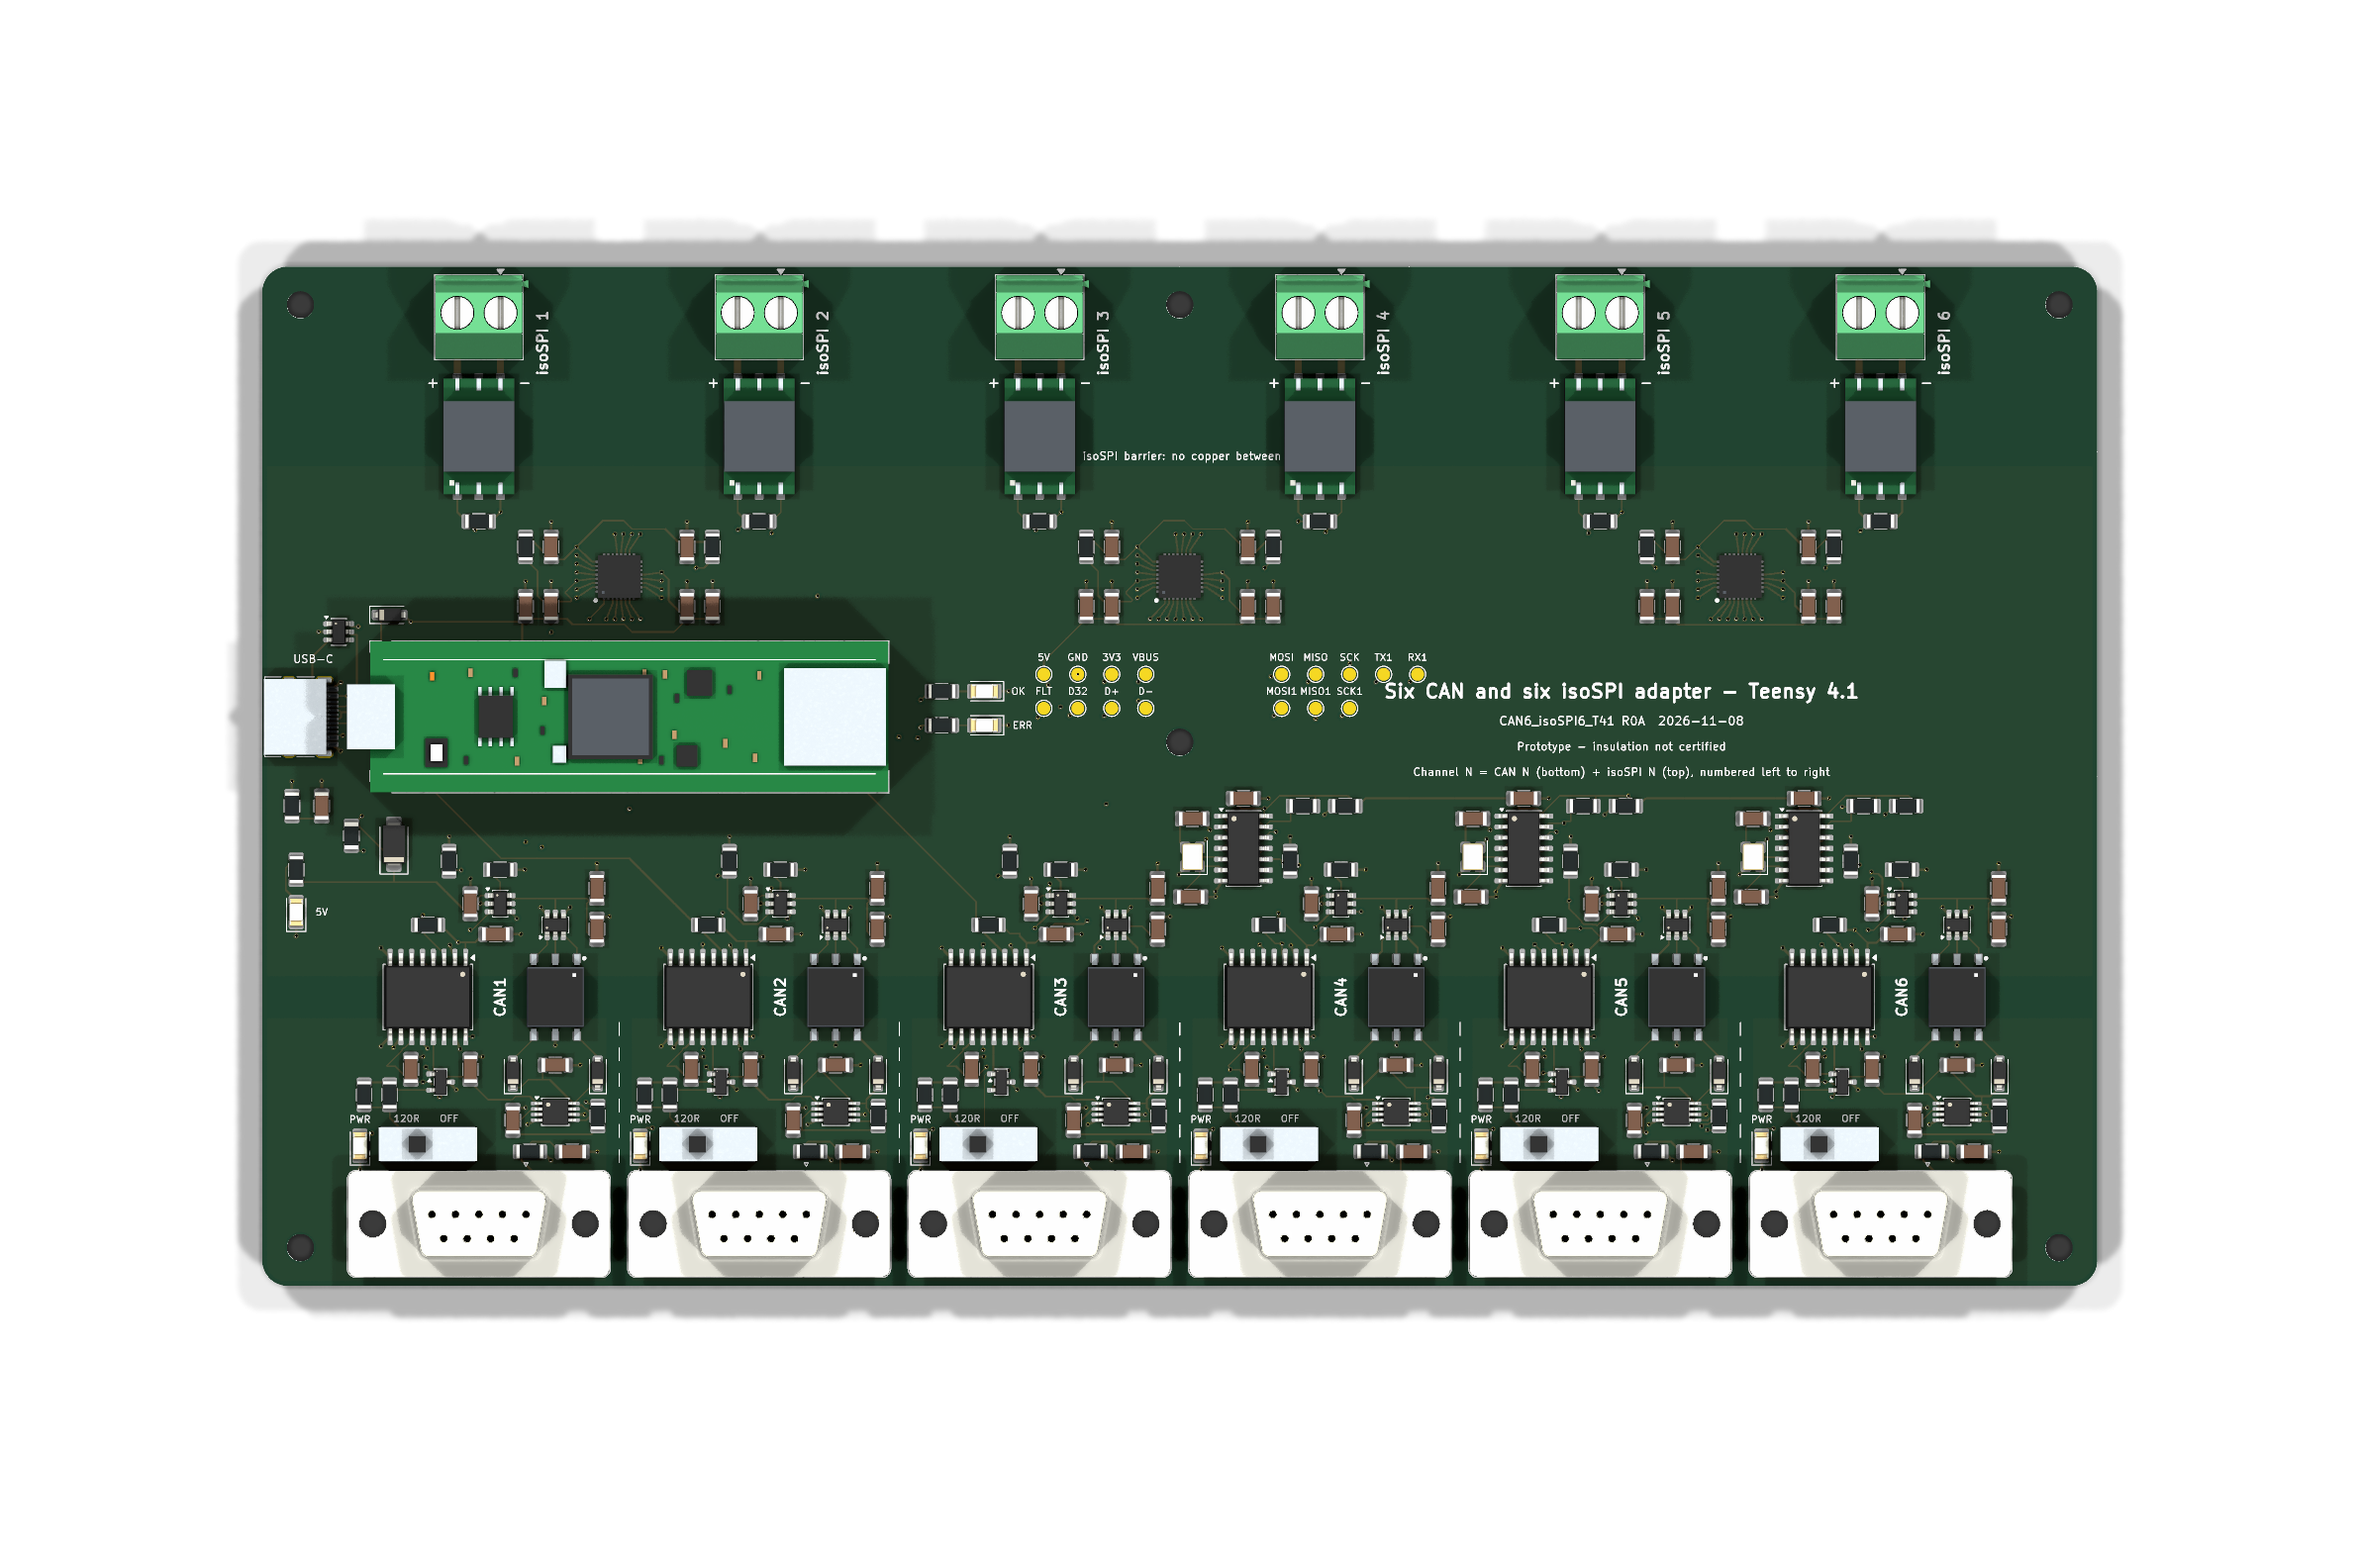
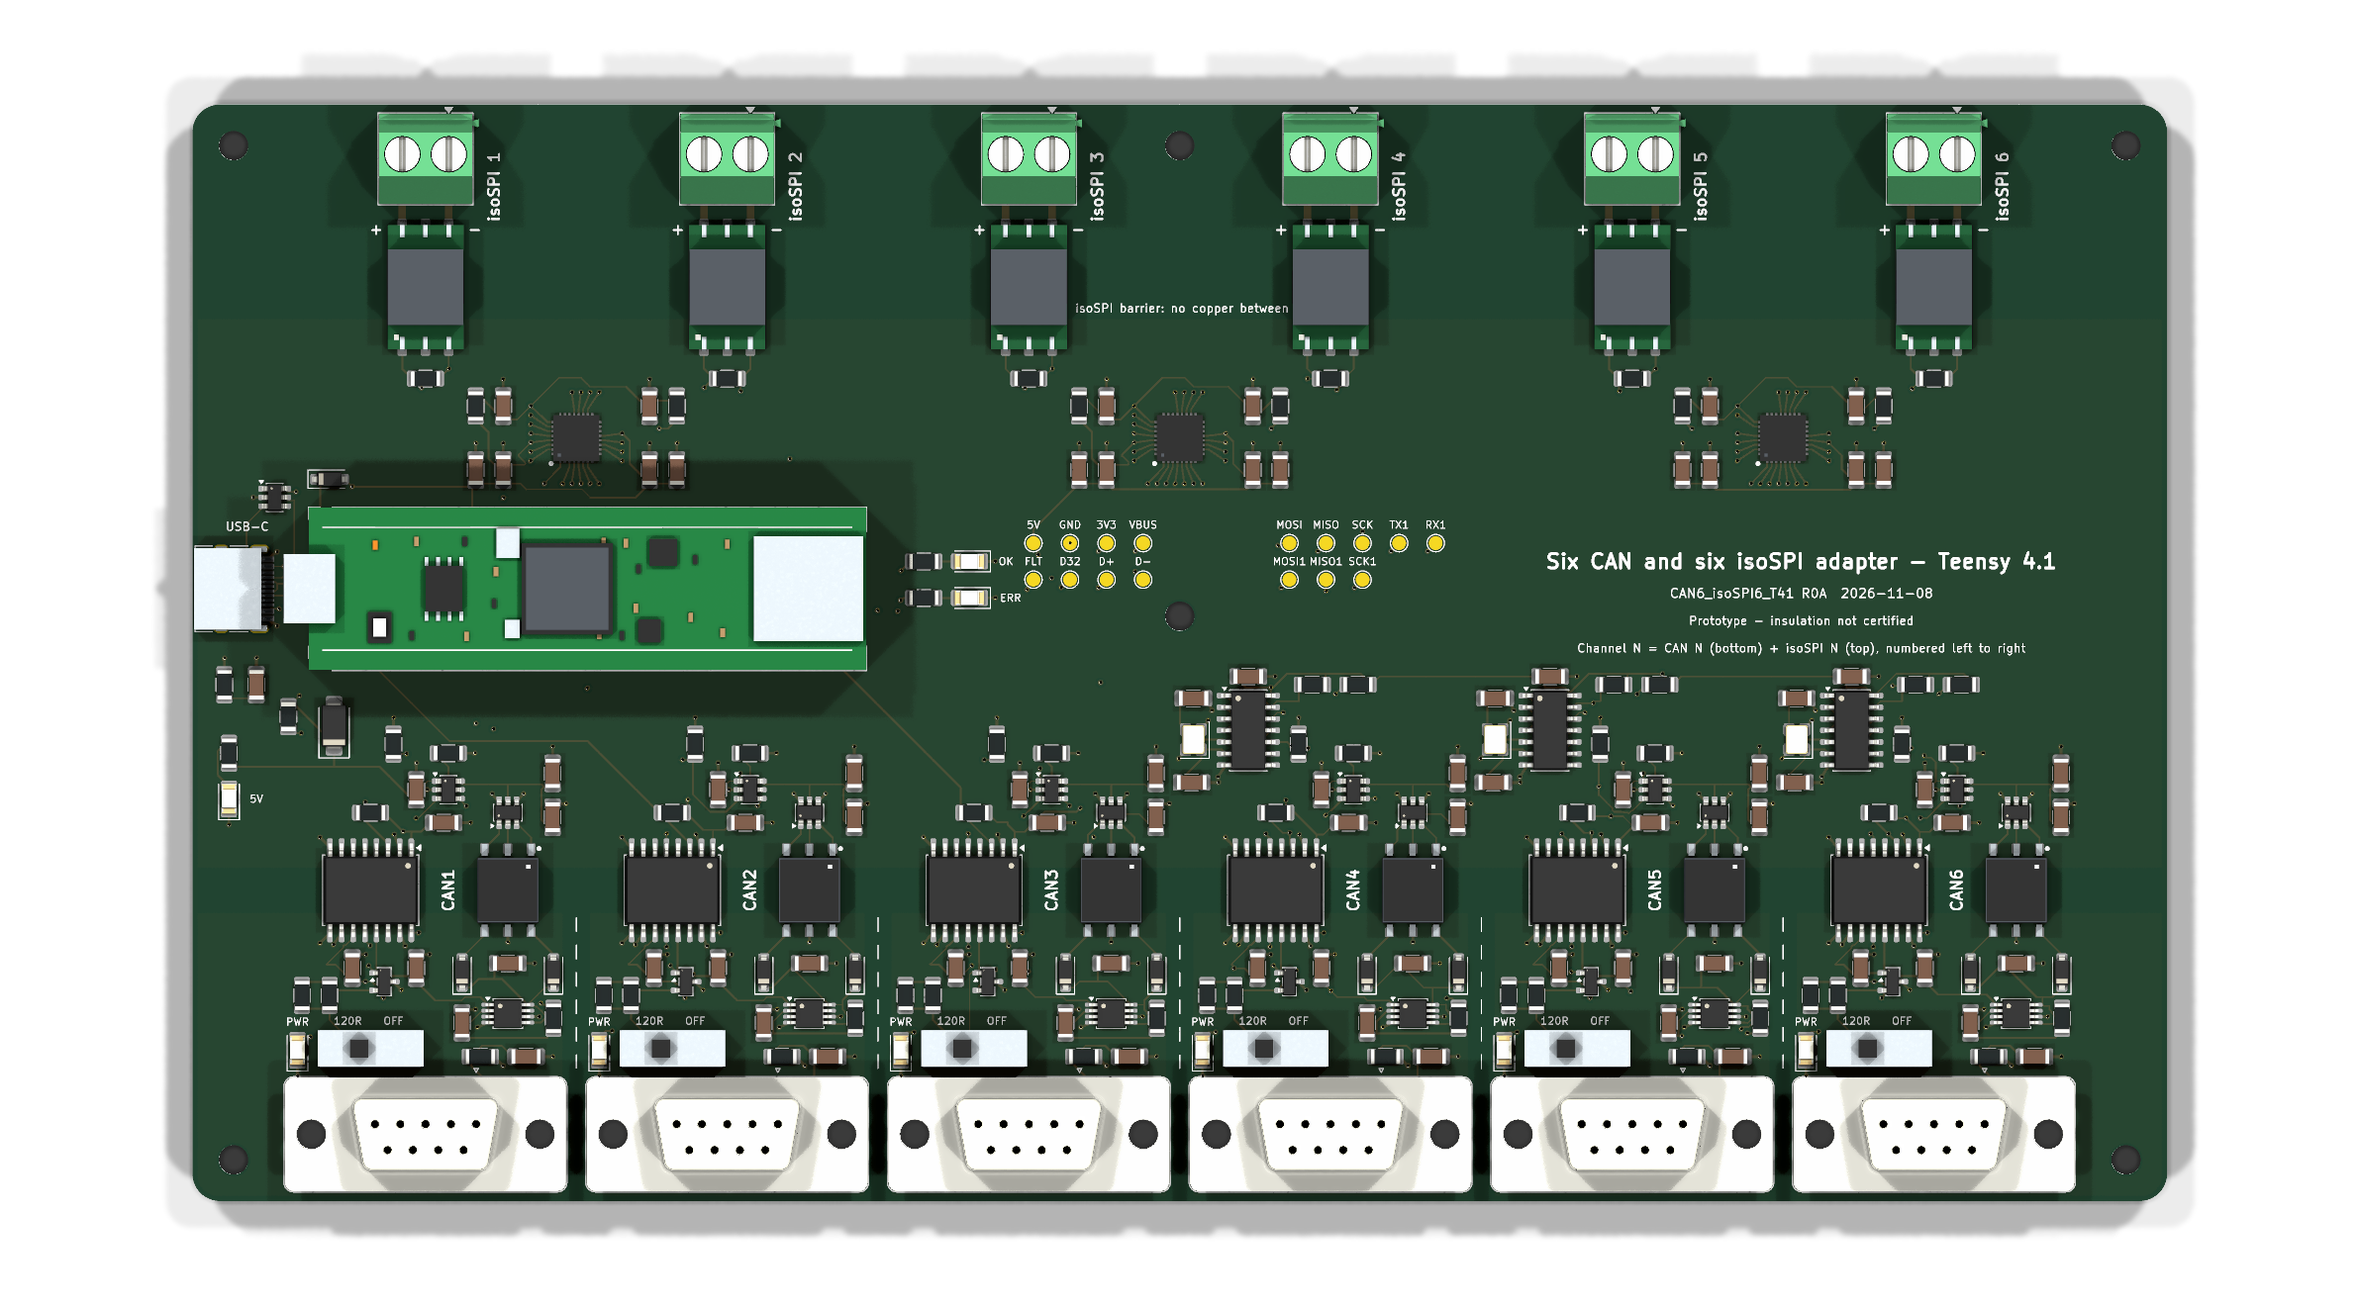
Move Teensy silk title block clear of right test points
The title block sat at x=160 and crowded the MOSI/MISO/SCK/TX1/RX1
column of test-point labels on the right. Shift all four silk lines
to x=176, into the open area between the right test-point group
(rightmost label RX1 at x=136) and the right mounting hole (x=211.5),
giving a clear ~10 mm gap on each side. Re-render the Teensy top
and iso views, add a Nano R4 top view, and swap the README hero
images for both adapters to full top-down views that fill the frame.

diff --git a/hardware/teensy41/tools/generate_t41.py b/hardware/teensy41/tools/generate_t41.py
@@ -692,10 +692,12 @@ def silkscreen(board):
     ]
     for x, y, t in tp_labels:
         add_text(board, t, x, y, 0.8)
-    add_text(board, D.TITLE, 160.0, 50.0, 1.6, bold=True)
-    add_text(board, "%s %s  %s" % (D.PROJECT, D.REV, D.DATE), 160.0, 53.5, 1.0)
-    add_text(board, "Prototype - insulation not certified", 160.0, 56.5, 0.9)
-    add_text(board, "Channel N = CAN N (bottom) + isoSPI N (top), numbered left to right", 160.0, 59.5, 0.9)
+    # Title block sits in the open area between the right test-point group
+    # (rightmost label RX1 at x=136) and the right mounting hole at x=211.5.
+    add_text(board, D.TITLE, 176.0, 50.0, 1.6, bold=True)
+    add_text(board, "%s %s  %s" % (D.PROJECT, D.REV, D.DATE), 176.0, 53.5, 1.0)
+    add_text(board, "Prototype - insulation not certified", 176.0, 56.5, 0.9)
+    add_text(board, "Channel N = CAN N (bottom) + isoSPI N (top), numbered left to right", 176.0, 59.5, 0.9)
 
 
 # =============================================================================

diff --git a/README.md b/README.md
@@ -17,7 +17,7 @@ Two open-hardware USB adapters for battery-management bench work. Both connect i
 
 ## Nano R4 adapter (R0C)
 
-![KiCad 3D render of the Nano R4 adapter](docs/images/board-r0c.png)
+![Top view of the Nano R4 adapter](docs/images/board-r0c-top.png)
 
 | Interface | Hardware |
 |---|---|
@@ -45,9 +45,7 @@ R0C differs from R0B in one connection: the SN6505B CLK pin is now tied to groun
 
 ## Teensy 4.1 adapter (R0A)
 
-![KiCad 3D render of the Teensy 4.1 adapter](docs/images/board-t41-r0a.png)
-
-[Top view](docs/images/board-t41-r0a-top.png)
+![Top view of the Teensy 4.1 adapter](docs/images/board-t41-r0a-top.png)
 
 Six isolated CAN ports on DSUB-9 connectors along one long edge and six isoSPI terminals along the opposite long edge. **Channel N** is one column: CAN N sits directly opposite isoSPI N, numbered 1–6 from left to right, and the same number is used on the silkscreen, in the schematic, in reference designators and in the firmware. Each adapter reports a unique ID and an optional stored label, so several can share one host. A single USB-C connector supplies power and USB data; the data lines reach the Teensy through two pogo pins that touch its USB device pads.
 
